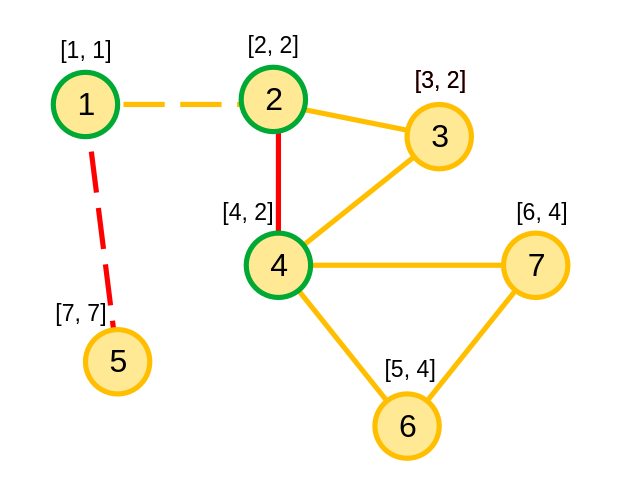
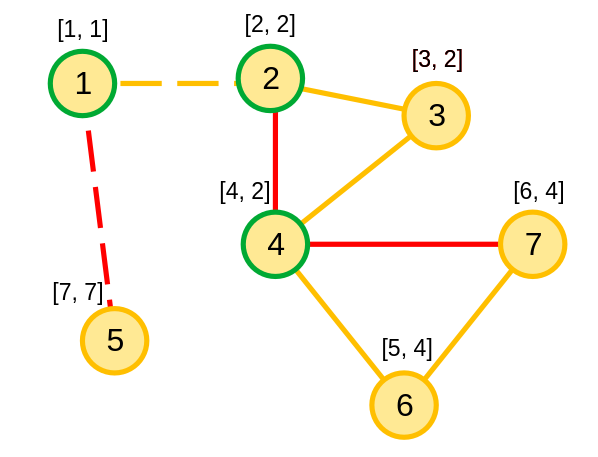
Update

Changed region(s): [[0.0602, 0.0306, 0.9632, 0.9803]]

diff --git a/src/basic/two-pointers.md b/src/basic/two-pointers.md
@@ -41,32 +41,17 @@ Vì 2 là phần tử nhỏ hơn nên ta tiếp tục thuật toán:
 
 Và ta tiếp tục thuật toán cho tới khi cả 2 mảng đều rỗng.
 
-Để thực hiện thuật toán này, ta sử dụng kĩ thuật hai con trỏ. Ta tạo 2 con trỏ `i` và `j` cho 2 mảng `a` và `b`. 2 con trỏ này sẽ trỏ vào vị trí phần tử đầu tiên của 2 mảng. 
+Để thực hiện thuật toán này, ta sử dụng kĩ thuật hai con trỏ. Ta tạo 2 con trỏ \\(i\\) và \\(j\\) cho 2 mảng `a` và `b`. 2 con trỏ này sẽ trỏ vào vị trí phần tử đầu tiên của 2 mảng. 
 
 Mỗi lần một con trỏ trỏ đến phần tử được chọn, con trỏ đấy sẽ di chuyển đến vị trí tiếp theo trong mảng.
 
 \\[a = [\color{red}{\not{1}}, \overset{\underset{\downarrow}{i}}{3}, 4]\\]
 \\[b = [\underset{\overset{\uparrow}{j}}{2}, 5, 6]\\]
 
-Ta có n, m lần lượt là kích thước của mảng `a` và `b`, phần tử đầu tiên của 2 mảng có chỉ số 1.
+Ta có \\(n\\), \\(m\\) lần lượt là kích thước của mảng `a` và `b`, phần tử đầu tiên của 2 mảng có chỉ số 1. Mảng nào có con trỏ trỏ ra ngoài mảng thì ta sẽ thêm các phần tử còn lại của mảng kia vào mảng `c`.
 
 ```C++
-int i = 1, j = 1;
-while(i <= n && j <= m){
-	if(a[i] < b[j]){
-		c[i + j] = a[i];
-		++i;
-	}else{
-		c[i + j] = b[j];
-		++j;
-	}
-}
-```
-
-Mảng nào có con trỏ trỏ ra ngoài mảng thì ta sẽ thêm các phần tử còn lại của mảng kia vào mảng `c`.
-
-```C++
-while(i <= n && j <= m){
+while(i <= n || j <= m){
 	if(j > m || (i <= n && a[i] < b[j])){
 		c[i + j] = a[i];
 		++i;
@@ -95,15 +80,15 @@ Ta để hai con trỏ ở vị trí ban đầu.
 
 \\[[\overset{\underset{\downarrow}{i}}{\color{red}{1}}, 2, 3, 5, 8, 9, 12, \overset{\underset{\downarrow}{j}}{\color{red}{15}}]\\]
 
-Dễ thấy, \\(1 + 15 = 16 \gt 11\\). Vì vậy, ta dịch con trỏ `j` sang trái.
+Dễ thấy, \\(1 + 15 = 16 \gt 11\\). Vì vậy, ta dịch con trỏ \\(j\\) sang trái.
 
 \\[[\overset{\underset{\downarrow}{i}}{\color{red}{1}}, 2, 3, 5, 8, 9, \overset{\underset{\downarrow}{j}}{\color{red}{12}}, 15]\\]
 
-\\(1 + 12 = 13 \gt 11\\), tiếp tục dịch con trỏ `j` sang trái.
+\\(1 + 12 = 13 \gt 11\\), tiếp tục dịch con trỏ \\(j\\) sang trái.
 
 \\[[\overset{\underset{\downarrow}{i}}{\color{red}{1}}, 2, 3, 5, 8, \overset{\underset{\downarrow}{j}}{\color{red}{9}}, 12, 15]\\]
 
-\\(1 + 9 = 10 \lt 11\\), khi này dịch con trỏ `i` sang phải.
+\\(1 + 9 = 10 \lt 11\\), khi này dịch con trỏ \\(i\\) sang phải.
 
 \\[[1, \overset{\underset{\downarrow}{i}}{\color{red}{2}}, 3, 5, 8, \overset{\underset{\downarrow}{j}}{\color{red}{9}}, 12, 15]\\]
 
@@ -121,26 +106,21 @@ Cách giải bài toán này gần giống với bài toán 2SUM ở trên:
 
 Ta có \\(SUM(l, r)\\) là tổng giá trị các phần tử \\(a_l, a_{l + 1},..., a_{r - 1}, a_{r}\\).
 
-Hai con trỏ `i` và `j` của ta sẽ được đặt tại vị trí đầu mảng.
+Hai con trỏ \\(i\\) và \\(j\\) của ta sẽ được đặt tại vị trí đầu mảng.
 
-Nếu \\(SUM(i, j) < x\\), dịch `j` sang phải. Nếu \\(SUM(i, j) > x\\), dịch `i` sang phải. Nếu \\(SUM(i, j) = x\\), đã tìm được mảng con có tổng bằng \\(x\\).
+Nếu \\(SUM(i, j) < x\\), dịch \\(j\\) sang phải. Nếu \\(SUM(i, j) > x\\), dịch \\(i\\) sang phải. Nếu \\(SUM(i, j) = x\\), đã tìm được mảng con có tổng bằng \\(x\\).
 
 Ta ví dụ bằng mảng sau và một số \\(x = 11\\):
 
 \\[[1, 4, 2, 6, 3, 7, 5]\\]
 
-Ta để hai con trỏ ở vị trí ban đầu.
-
-\\[[\overset{\underset{\downarrow}{i, j}}{\color{red}{1}}, 4, 2, 6, 3, 7, 5]\\]
-
-Các bước thực hiện tiếp theo của thuật toán:
-
 | Nhận xét | Thao tác | Sau thao tác |
 |---|---|---|
-|\\(SUM(1, 1) = 1 < 11\\) | Dịch `j` sang phải.|\\([\overset{\underset{\downarrow}{i}}{\color{red}{1}}, \overset{\underset{\downarrow}{j}}{\color{red}{4}}, 2, 6, 3, 7, 5]\\)|
-|\\(SUM(1, 2) = 5 < 11\\) | Dịch `j` sang phải.|\\([\overset{\underset{\downarrow}{i}}{\color{red}{1}}, \color{red}{4}, \overset{\underset{\downarrow}{j}}{\color{red}{2}}, 6, 3, 7, 5]\\)|
-|\\(SUM(1, 3) = 7 < 11\\) | Dịch `j` sang phải.|\\([\overset{\underset{\downarrow}{i}}{\color{red}{1}}, \color{red}{4}, \color{red}{2}, \overset{\underset{\downarrow}{j}}{\color{red}{6}}, 3, 7, 5]\\)|
-|\\(SUM(1, 4) = 13 > 11\\) | Dịch `i` sang phải.|\\([1, \overset{\underset{\downarrow}{i}}{\color{red}{4}}, \color{red}{2}, \overset{\underset{\downarrow}{j}}{\color{red}{6}}, 3, 7, 5]\\)|
-|\\(SUM(2, 4) = 12 > 11\\) | Dịch `i` sang phải.|\\([1, 4, \overset{\underset{\downarrow}{i}}{\color{red}{2}}, \overset{\underset{\downarrow}{j}}{\color{red}{6}}, 3, 7, 5]\\)|
-|\\(SUM(3, 4) = 8 < 11\\) | Dịch `j` sang phải.|\\([1, 4, \overset{\underset{\downarrow}{i}}{\color{red}{2}}, \color{red}{6}, \overset{\underset{\downarrow}{j}}{\color{red}{3}}, 7, 5]\\)|
-|\\(SUM(3, 5) = 11\\)| Tồn tại mảng con có tổng bằng \\(x\\), kết thúc thuật toán.|\\([1, 4, \overset{\underset{\downarrow}{i}}{\color{red}{2}}, \color{red}{6}, \overset{\underset{\downarrow}{j}}{\color{red}{3}}, 7, 5]\\)|
+|| Đặt \\(i\\), \\(j\\) ở vị trí 1. |\\([\overset{\underset{\downarrow}{i, j}}{\color{red}{1}}, 4, 2, 6, 3, 7, 5]\\)|
+|\\(SUM(1, 1) = 1 < 11\\) | Dịch \\(j\\) sang phải.|\\([\overset{\underset{\downarrow}{i}}{\color{red}{1}}, \overset{\underset{\downarrow}{j}}{\color{red}{4}}, 2, 6, 3, 7, 5]\\)|
+|\\(SUM(1, 2) = 5 < 11\\) | Dịch \\(j\\) sang phải.|\\([\overset{\underset{\downarrow}{i}}{\color{red}{1}}, \color{red}{4}, \overset{\underset{\downarrow}{j}}{\color{red}{2}}, 6, 3, 7, 5]\\)|
+|\\(SUM(1, 3) = 7 < 11\\) | Dịch \\(j\\) sang phải.|\\([\overset{\underset{\downarrow}{i}}{\color{red}{1}}, \color{red}{4}, \color{red}{2}, \overset{\underset{\downarrow}{j}}{\color{red}{6}}, 3, 7, 5]\\)|
+|\\(SUM(1, 4) = 13 > 11\\) | Dịch \\(i\\) sang phải.|\\([1, \overset{\underset{\downarrow}{i}}{\color{red}{4}}, \color{red}{2}, \overset{\underset{\downarrow}{j}}{\color{red}{6}}, 3, 7, 5]\\)|
+|\\(SUM(2, 4) = 12 > 11\\) | Dịch \\(i\\) sang phải.|\\([1, 4, \overset{\underset{\downarrow}{i}}{\color{red}{2}}, \overset{\underset{\downarrow}{j}}{\color{red}{6}}, 3, 7, 5]\\)|
+|\\(SUM(3, 4) = 8 < 11\\) | Dịch \\(j\\) sang phải.|\\([1, 4, \overset{\underset{\downarrow}{i}}{\color{red}{2}}, \color{red}{6}, \overset{\underset{\downarrow}{j}}{\color{red}{3}}, 7, 5]\\)|
+|\\(SUM(3, 5) = 11\\)| Tồn tại mảng con có tổng bằng \\(x\\), kết thúc thuật toán.||

diff --git a/src/algo-paradigms/digit-dp.md b/src/algo-paradigms/digit-dp.md
@@ -28,9 +28,9 @@ Giả sử ta đã điền các chữ số ở trước \\(a_1\\) bằng các gi
 |---|---|---|---|
 |\\(2\\)|\\(1\\)|\\(\*\\)|\\(\*\\)|
 
-Ta thấy rằng \\(a_1\\) (và các số sau nó) có thể nhận giá trị chữ số từ \\(0\\) đến \\(9\\).
+Trường hợp không giới hạn sẽ xảy ra nếu các số được điền trước \\(a_i\\) có thứ tự từ điển nhỏ hơn hẳn \\(X\\). Khi này, ta có thể điền \\(a_i\\) các chữ số từ \\(0\\) đến \\(9\\).
 
-Trường hợp không giới hạn sẽ xảy ra nếu các số trước \\(a_i\\) có giá trị khác với các giá trị tương ứng ở số \\(X\\). Ở đây, \\(a_3 \neq x_3\\) nên \\(a_1\\) có thế nhận giá trị như ở trên.
+Ở đây, vì \\(21 < 31\\) nên \\(a_1\\) rơi vào trường hợp không giới hạn. Vì vậy ta được quyền gán cho \\(a_1\\) các chữ số từ \\(0\\) đến \\(9\\). Ta có thể kết luận như vậy vì dù có gán \\(a_1\\) bằng chữ số nào đi nữa thì các số có dạng \\(\overline{21**}\\) cũng sẽ nhỏ hơn \\(X\\).
 
 #### Trường hợp có giới hạn
 
@@ -40,9 +40,9 @@ Giả sử ta đã điền các chữ số ở trước \\(a_1\\) bằng các gi
 |---|---|---|---|
 |\\(2\\)|\\(1\\)|\\(\*\\)|\\(\*\\)|
 
-Ta thấy rằng \\(a_1\\) chỉ có thể nhận giá trị chữ số từ \\(0\\) đến \\(x_1\\). Giả sử nếu \\(x_1 < 9\\) và ta gán một số lớn hơn \\(x_1\\) (như \\(x_1 + 1\\)) cho \\(a_1\\), thì dù \\(a_0\\) có được gán giá trị nào thì \\(A\\) cũng sẽ lớn hơn \\(X\\).
+Trường hợp không giới hạn sẽ xảy ra nếu các số được điền trước \\(a_i\\) là một tiền tố của số \\(X\\). Khi này, ta chỉ có thể điền \\(a_i\\) các chữ số từ \\(0\\) đến \\(x_i\\).
 
-Trường hợp không giới hạn sẽ xảy ra nếu các số trước \\(a_i\\) có giá trị bằng với các giá trị tương ứng ở số \\(X\\). Ở đây, \\(a_3 = x_3, a_2 = x_2\\) nên \\(a_1\\) có thế nhận giá trị như ở trên.
+Ở đây, ta có \\(31\\) là một tiền tố của \\(X\\) nên rơi vào trường hợp có giới hạn. Ta chỉ có thể gán cho \\(a_1\\) các chữ số từ \\(0\\) đến \\(x_1 = 4\\). Giả sử ta gán \\(a_1 = 5\\). Khi này, các số có dạng \\(\overline{315*}\\) sẽ có giá trị lớn hơn \\(X\\), và các số có dạng này là các số mà ta không cần xét đến.
 
 Từ \\(2\\) trường hợp trên, ta có các trạng thái QHĐ cần thiết để giải một bài toán QHĐ chữ số:
 
@@ -288,7 +288,7 @@ Nhiều bài toán QHĐ chữ số (giống như bài này) có thể yêu cầu
 
 Một cách tối ưu cực kì hay ho chính là ta sẽ chỉ thực hiện việc `memset` một lần ở ngoài hàm \\(G\\), đồng thời bỏ trạng thái \\(smaller\\) khi lưu kết quả của trạng thái. 
 
-Vì các giá trị của trạng thái QHĐ có \\(smaller = 0\\) phụ thuộc vào một số cụ thể, nên không thể sử dụng lại cho các số tiếp theo. Bằng cách loại bỏ trạng thái \\(smaller\\) khi lưu kết quả của trạng thái và xét riêng từng trường hợp \\(smaller\\), ta có thể sử dụng lại các kết quả đã được tính ở những lần trước.
+Vì các giá trị của trạng thái QHĐ có \\(smaller = 0\\) phụ thuộc vào một giá trị cụ thể, nên không thể sử dụng lại cho các số tiếp theo. Bằng cách loại bỏ trạng thái \\(smaller\\) khi lưu kết quả của trạng thái và xét riêng từng trường hợp \\(smaller\\), ta có thể sử dụng lại các kết quả đã được tính ở những lần trước.
 
 Có thể xem qua đoạn code của bài toán khi áp dụng cách cài đặt mới:
 

diff --git a/src/graph-theory/graph-traversal-applications.md b/src/graph-theory/graph-traversal-applications.md
@@ -167,7 +167,7 @@ Xem chi tiết tại phần [thuật toán sắp xếp Tô-pô](topo.md).
 
 ## Phát hiện chu trình
 
-Đối với đồ thị vô hướng, việc xác định sự tồn tại của chu trình khá đơn giản: nếu đồ thị không có chu trình nếu nó là một [cây](overview.md#cây). Nếu không phải cây thì đồ thị chắc chắn có chu trình.
+Đối với đồ thị vô hướng, việc xác định sự tồn tại của chu trình khá đơn giản: đồ thị không có chu trình nếu nó là một [cây](overview.md#cây). Nếu không phải cây thì đồ thị chắc chắn có chu trình.
 
 Đối với đồ thị có hướng, ta sẽ giải quyết theo hướng khác bằng DFS.
 
@@ -226,7 +226,7 @@ Ban đầu, khi bắt đầu duyệt đỉnh \\(u\\), ta có \\(num[u] = low[u]\
 
 Từ những thông tin này, ta có thể xác định khớp cầu trên đồ thị.
 
-Một đỉnh \\(u\\) là đỉnh khớp khi tồn tại một đỉnh con trên cây DFS \\(v\\) sao cho \\(low[v] \ge num[u]\\). Điều này xảy ra khi \\(v\\) có thể đến được một đỉnh có \\(num\\) nhỏ hơn \\(num[u]\\) bằng cạnh ngược. Nếu điều này không xảy ra, thì để \\(v\\) có thể đi sang các đỉnh khác ngoài các đỉnh trong cây DFS con gốc \\(v\\), ta cần phải đi qua đỉnh \\(u\\), và khi xóa đỉnh \\(u\\) đi thì \\(v\\) không thể đi đến các đỉnh ấy \\(\rightarrow\\) đỉnh \\(u\\) là đỉnh khớp. 
+Một đỉnh \\(u\\) là đỉnh khớp khi tồn tại một đỉnh con trên cây DFS \\(v\\) sao cho \\(low[v] \ge num[u]\\). Nếu \\(low[v] \lt num[u]\\) thì \\(v\\) có thể đến được một đỉnh có \\(num\\) nhỏ hơn \\(num[u]\\) bằng cạnh ngược. Nếu điều này không xảy ra, thì để \\(v\\) có thể đi sang các đỉnh khác ngoài các đỉnh trong cây DFS con gốc \\(v\\), ta cần phải đi qua đỉnh \\(u\\), và khi xóa đỉnh \\(u\\) đi thì \\(v\\) không thể đi đến các đỉnh ấy \\(\rightarrow\\) đỉnh \\(u\\) là đỉnh khớp. 
 
 Một trường hợp nữa của đỉnh khớp là khi đỉnh gốc của cây DFS có ít nhất \\(2\\) đỉnh con thì đỉnh gốc cũng là đỉnh khớp.
 
@@ -239,8 +239,8 @@ Một cạnh \\(uv\\) là cạnh cầu khi \\(low[v] \gt num[u]\\) với cách g
 Ở hình trên, ta có đồ thị DFS sau khi duyệt đồ thị:
 - Số bên phải chỉ \\(low\\) của đỉnh \\(v\\).
 - Số bên trái chỉ \\(num\\) của đỉnh \\(u\\).
-- Cạnh vàng chỉ các cạnh thuộc cây DFS.
-- Cạnh đỏ chỉ các cạnh ngược không cây DFS.
+- Cạnh vàng chỉ các cạnh cây thuộc cây DFS.
+- Cạnh đỏ chỉ các cạnh ngược không thuộc cây DFS.
 - Các đỉnh viền xanh chỉ các đỉnh khớp. 
 - Các cạnh nét dứt chỉ các cạnh cầu. 
 
@@ -323,9 +323,9 @@ void scc(){
 }
 ```
 
-### Thuật toán Tarjan
+### Thuật toán của Tarjan
 
-Thuật toán Tarjan cũng là một thuật toán tìm kiếm TPLT mạnh.
+Thuật toán của Tarjan là một thuật toán tìm kiếm TPLT mạnh.
 
 Ta sẽ sử dụng \\(num\\) và \\(low\\) giống như phần khớp cầu, tuy nhiên việc cập nhật \\(low\\) sẽ có chút khác biệt. Ta chỉ cập nhât \\(low[u]\\) bằng \\(low[v]\\) nếu ta chưa xác định được \\(v\\) thuộc TPLT mạnh nào.
 

diff --git a/src/SUMMARY.md b/src/SUMMARY.md
@@ -3,7 +3,6 @@
 [Smol Book](./title-page.md)
 [Giới thiệu](./introduction.md)
 [Hướng dẫn](./guide.md)
-[Lời cảm ơn](./acknowledgements.md)
 
 # Mục lục
 
@@ -41,12 +40,20 @@
     - [Ứng dụng của thuật toán tìm kiếm](./graph-theory/graph-traversal-applications.md)
   - [Thuật toán sắp xếp Tô-pô](./graph-theory/topo.md)
   - [Các thuật toán tìm đường đi ngắn nhất]()
+    - [Thuật toán Dijkstra]()
+    - [Thuật toán Bellman-Ford]()
+    - [Thuật toán Floyd-Warshall]()
+  - [Cây khung nhỏ nhất]()
   - [2-SAT]()
+  - [Đường đi Euler]()
   - [Cây]()
-    - [Bài toán LCA]()
+    - [Đường đi Euler trên cây]()
+    - [Tổ tiên chung gần nhất]()
     - [Kĩ thuật phân rã nặng-nhẹ (Heavy-Light Decomposition)]()
     - [Kĩ thuật phân rã trọng tâm (Centroid Decomposition)]()
-  - [Luồng cực đại]()
+  - [Luồng cực đại trên mạng]()
+    - [Ứng dụng của luồng cực đại]()
+    - [Luồng cực đại với chi phí cực tiểu]()
 - [Toán học]()
   - [Lí thuyết số]()
   - [Tổ hợp]()

diff --git a/src/algo-paradigms/dnc.md b/src/algo-paradigms/dnc.md
@@ -8,7 +8,7 @@
 
 Giống như khi ta đọc và nhớ một số điện thoại, ta không nhớ một lúc 10 chữ số `xxxxxxxxx` mà ta chia nó ra thành 3 phần nhỏ hơn `xxxx-xxx-xxx` để dễ ghi nhớ.
 
-Ta đã được thấy mô hình này được áp dụng ở các thuật toán như [tìm kiếm nhị phân](../basic/binary-search.md), [merge sort](../basic/sorting.md#sắp-xếp-trộn-merge-sort), [quicksort](../basic/sorting.md#sắp-xếp-nhanh-quicksort), trong các CTDL như [Segment Tree](../data-structures/segment-tree.md).
+Ta đã được thấy mô hình này được áp dụng ở các thuật toán như [tìm kiếm nhị phân](../basic/binary-search.md), [merge sort](../basic/sorting.md#sắp-xếp-trộn-merge-sort), [quicksort](../basic/sorting.md#sắp-xếp-nhanh-quicksort), trong các CTDL như [segment tree](../data-structures/segment-tree.md).
 
 ## Tư tưởng
 

diff --git a/src/title-page.md b/src/title-page.md
@@ -3,9 +3,3 @@
 Dự án Smol Book đang được hoàn thiện 🚧.
 
 Có thể xem qua [hướng dẫn tương tác](./guide.md) để biết thêm chi tiết về cách tương tác với trang.
-
-Sử dụng theme `Light` để có trải nghiệm tốt nhất.
-
-<a href="https://codeberg.org/SmolLemon/SmolBook">
-    <img alt="Get it on Codeberg" src="https://get-it-on.codeberg.org/get-it-on-blue-on-white.png" height="60">
-</a>
